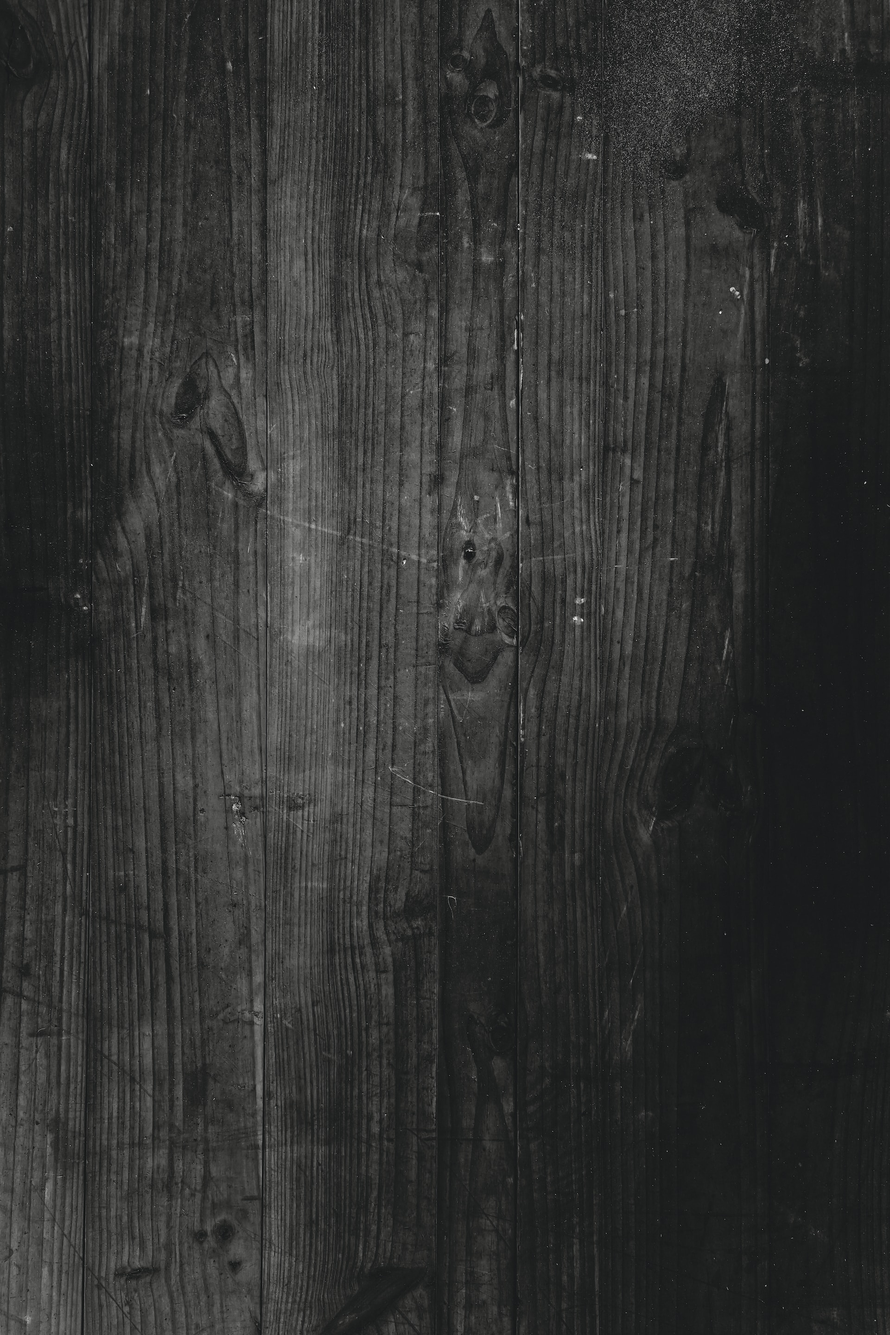
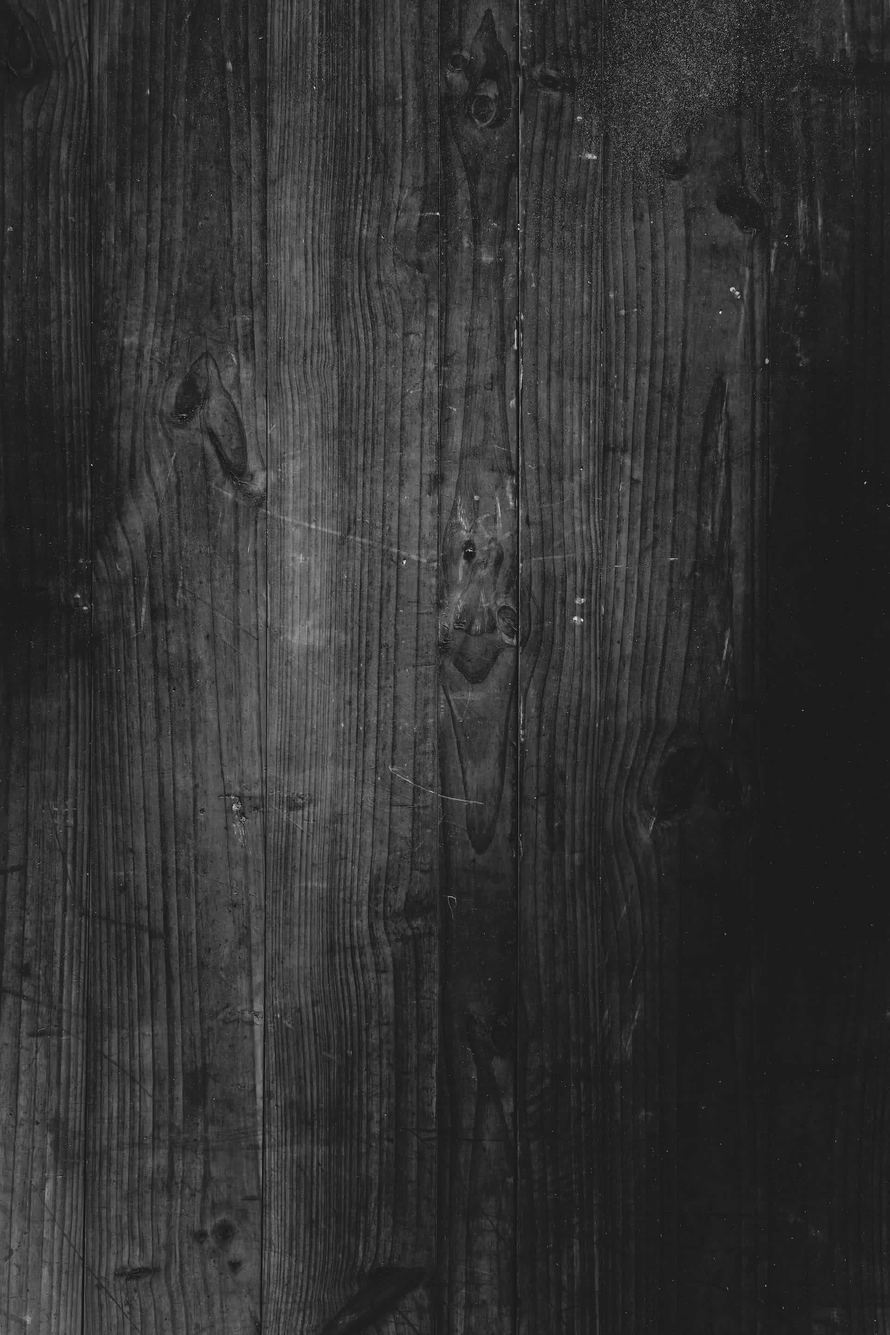
optimizando imagenes

Changed region(s): [[0.6875, 0.0, 0.8438, 0.125]]

diff --git a/assets/pages/about-me.html b/assets/pages/about-me.html
@@ -48,7 +48,7 @@
         <div class="container-fluid">
             <div class="row">
                 <div class="col-12 col-sm-4">
-                    <img class="col-12 col-sm-12 foto-amador m-3" src="../images/foto-amador.png" alt="foto">
+                    <img class="col-12 col-sm-12 foto-amador m-3" src="../images/foto-amador.jpg" alt="foto">
                 </div>
                 <div class="col-12 col-sm-8 ">
                     <h2 class="text-center p-3 text-uppercase text-black fs-1 bg-white m-3 texto-presentacion   ">
